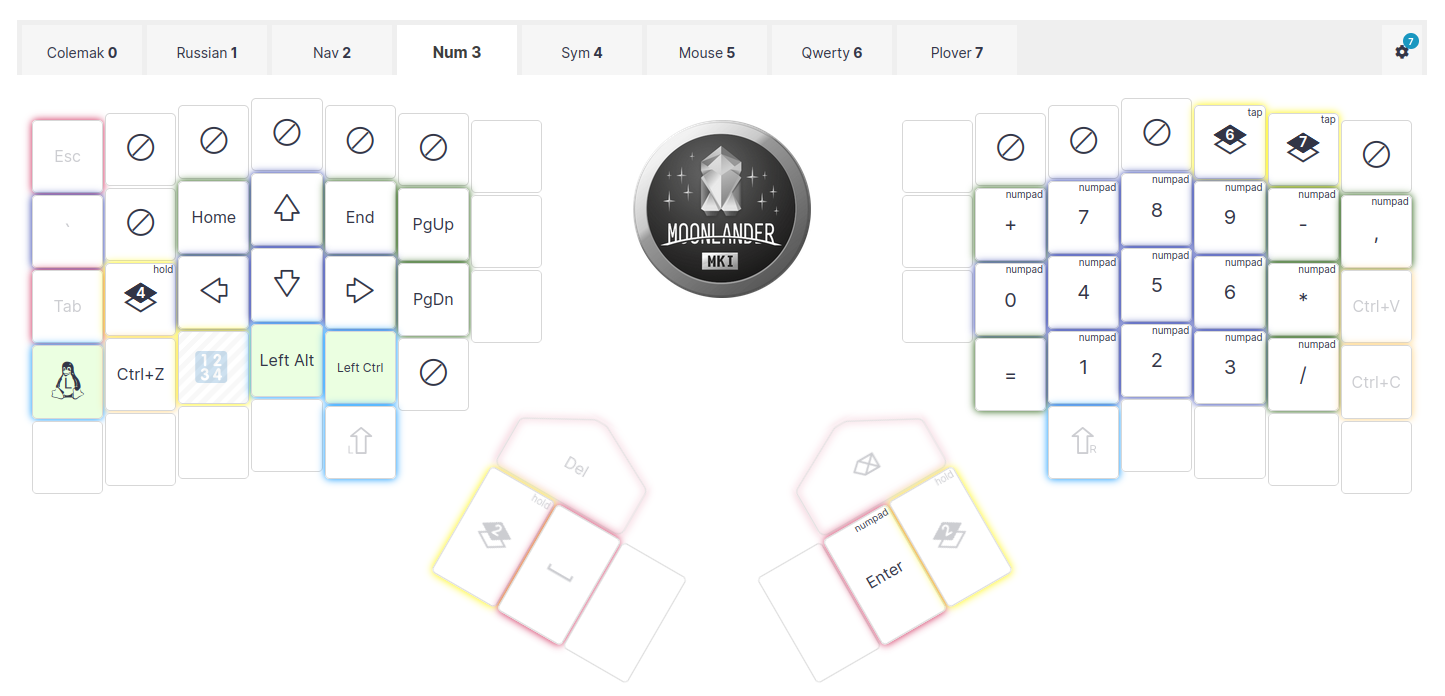
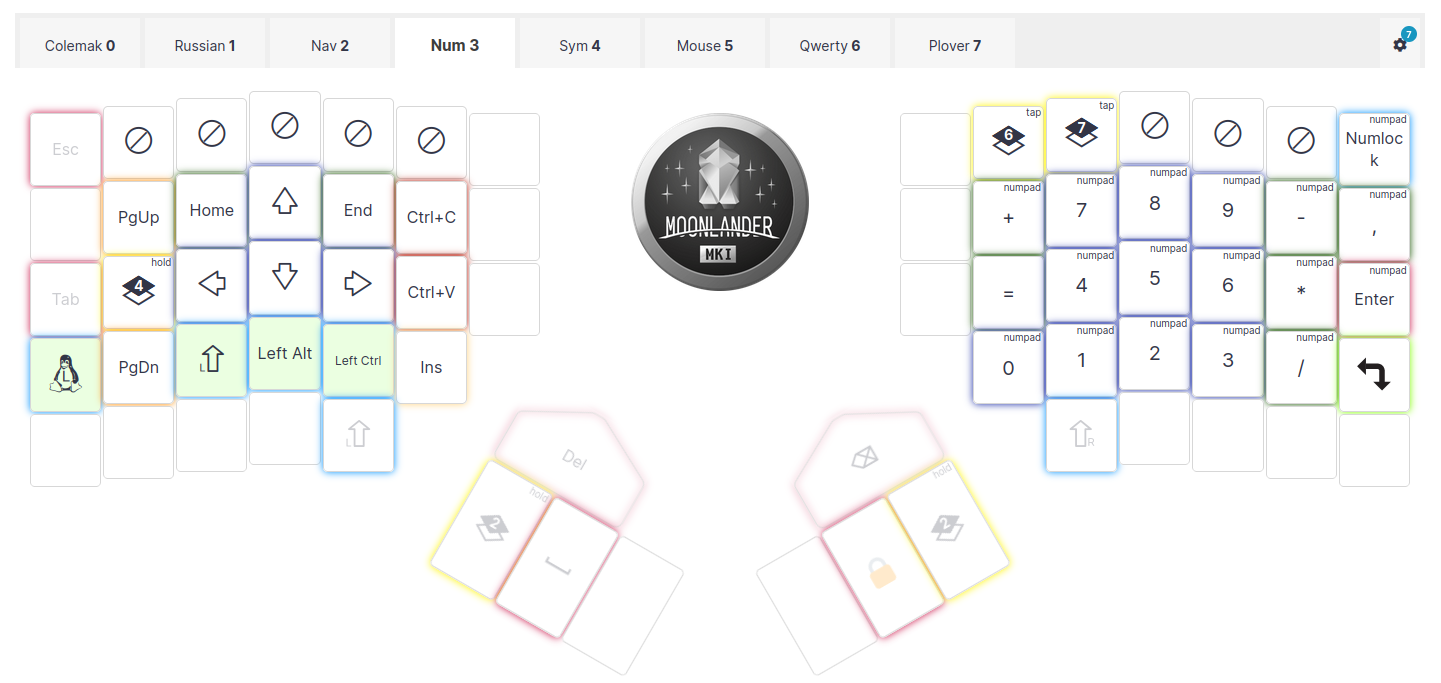
adjust nav layer

diff --git a/moonlander/keymap.c b/moonlander/keymap.c
@@ -73,9 +73,9 @@ const uint16_t PROGMEM keymaps[][MATRIX_ROWS][MATRIX_COLS] = {
   ),
   [_NAV] = LAYOUT_moonlander(
     KC_TRANSPARENT, KC_F1,          KC_F2,          KC_F3,          KC_F4,          KC_F5,          KC_TRANSPARENT,         KC_TRANSPARENT, KC_F6,          KC_F7,          KC_F8,          KC_F9,          KC_F10,         KC_F11,
-    MO(5),          LCTL(KC_Q),     LCTL(KC_W),     LCTL(KC_Y),     LCTL(KC_D),     KC_PSCREEN,     KC_TRANSPARENT,         KC_TRANSPARENT, LCTL(KC_C),     KC_HOME,        KC_UP,          KC_END,         KC_PGUP,        KC_F12,
-    KC_TRANSPARENT, MO(4),          KC_APPLICATION, KC_TRANSPARENT, MO(3),          LCTL(KC_LBRACKET),KC_TRANSPARENT,       KC_TRANSPARENT, LCTL(KC_V),     KC_LEFT,        KC_DOWN,        KC_RIGHT,       MO(4),          KC_TRANSPARENT,
-    KC_LGUI,        LCTL(KC_Z),     KC_LSHIFT,      KC_LALT,        KC_LCTRL,       LCTL(KC_RBRACKET),                                      KC_INSERT,      KC_RCTRL,       KC_LALT,        KC_RSHIFT,      KC_PGDOWN,      LGUI(KC_TAB),
+    MO(5),          LCTL(KC_Q),     LCTL(KC_W),     KC_PSCREEN,     LCTL(KC_D),     LCTL(KC_Y),     KC_TRANSPARENT,                                 KC_TRANSPARENT, LCTL(KC_C),     KC_HOME,        KC_UP,          KC_END,         KC_PGUP,        KC_F12,
+    MO(3),          MO(4),          KC_APPLICATION, KC_TRANSPARENT, KC_TRANSPARENT, LCTL(KC_LBRACKET),KC_TRANSPARENT,                                                                 KC_TRANSPARENT, LCTL(KC_V),     KC_LEFT,        KC_DOWN,        KC_RIGHT,       MO(4),          KC_TRANSPARENT,
+    KC_LGUI,        LCTL(KC_Z),     KC_LSHIFT,      KC_LALT,        KC_LCTRL,       LCTL(KC_RBRACKET),                                KC_INSERT,      MT(MOD_RCTL, KC_DELETE),KC_LALT,        KC_RSHIFT,      KC_PGDOWN,      LGUI(KC_TAB),
     KC_TRANSPARENT, KC_TRANSPARENT, KC_TRANSPARENT, KC_TRANSPARENT, KC_TRANSPARENT, KC_TRANSPARENT,                                         KC_TRANSPARENT, KC_TRANSPARENT, KC_TRANSPARENT, KC_TRANSPARENT, KC_TRANSPARENT, KC_TRANSPARENT,
     KC_TRANSPARENT, KC_TRANSPARENT, KC_TRANSPARENT,                 KC_TRANSPARENT, KC_TRANSPARENT, KC_TRANSPARENT
   ),
@@ -132,7 +132,7 @@ const uint8_t PROGMEM ledmap[][DRIVER_LED_TOTAL][3] = {
 
     [1] = { {245,218,204}, {23,255,255}, {245,218,204}, {23,255,255}, {0,0,0}, {73,255,85}, {23,255,255}, {41,255,255}, {23,255,255}, {0,0,0}, {73,255,85}, {23,255,255}, {23,255,255}, {147,255,255}, {0,0,0}, {73,255,85}, {23,255,255}, {23,255,255}, {147,255,255}, {0,0,0}, {73,255,85}, {23,255,255}, {23,255,255}, {147,255,255}, {147,255,255}, {73,255,85}, {23,255,255}, {23,255,255}, {23,255,255}, {0,0,0}, {0,0,0}, {0,0,0}, {41,255,255}, {245,218,204}, {0,0,0}, {245,218,204}, {147,255,255}, {23,255,255}, {245,218,204}, {23,255,255}, {0,0,0}, {73,255,85}, {23,255,255}, {41,255,255}, {23,255,255}, {0,0,0}, {73,255,85}, {23,255,255}, {23,255,255}, {147,255,255}, {0,0,0}, {73,255,85}, {23,255,255}, {23,255,255}, {147,255,255}, {0,0,0}, {73,255,85}, {23,255,255}, {23,255,255}, {147,255,255}, {147,255,255}, {73,255,85}, {23,255,255}, {23,255,255}, {23,255,255}, {0,0,0}, {0,0,0}, {0,0,0}, {41,255,255}, {245,218,204}, {0,0,0}, {245,218,204} },
 
-    [2] = { {245,218,204}, {41,255,255}, {245,218,204}, {147,255,255}, {0,0,0}, {64,255,255}, {28,127,255}, {41,255,255}, {28,127,255}, {0,0,0}, {64,255,255}, {28,127,255}, {73,255,85}, {147,255,255}, {0,0,0}, {64,255,255}, {23,255,255}, {0,0,0}, {147,255,255}, {0,0,0}, {64,255,255}, {23,255,255}, {41,255,255}, {147,255,255}, {147,255,255}, {64,255,255}, {4,232,184}, {23,255,255}, {23,255,255}, {0,0,0}, {0,0,0}, {0,0,0}, {41,255,255}, {245,218,204}, {0,0,0}, {4,232,184}, {64,255,255}, {64,255,255}, {4,232,184}, {64,255,255}, {0,0,0}, {64,255,255}, {23,255,255}, {41,255,255}, {23,255,255}, {0,0,0}, {64,255,255}, {73,255,85}, {166,218,166}, {147,255,255}, {0,0,0}, {64,255,255}, {166,218,166}, {166,218,166}, {147,255,255}, {0,0,0}, {64,255,255}, {73,255,85}, {166,218,166}, {147,255,255}, {147,255,255}, {64,255,255}, {4,232,184}, {4,232,184}, {28,127,255}, {0,0,0}, {0,0,0}, {0,0,0}, {41,255,255}, {245,218,204}, {0,0,0}, {4,232,184} },
+    [2] = { {245,218,204}, {41,255,255}, {41,255,255}, {147,255,255}, {0,0,0}, {64,255,255}, {28,127,255}, {41,255,255}, {28,127,255}, {0,0,0}, {64,255,255}, {28,127,255}, {73,255,85}, {147,255,255}, {0,0,0}, {64,255,255}, {4,232,184}, {0,0,0}, {147,255,255}, {0,0,0}, {64,255,255}, {23,255,255}, {0,0,0}, {147,255,255}, {147,255,255}, {64,255,255}, {23,255,255}, {23,255,255}, {23,255,255}, {0,0,0}, {0,0,0}, {0,0,0}, {41,255,255}, {245,218,204}, {0,0,0}, {4,232,184}, {64,255,255}, {64,255,255}, {4,232,184}, {64,255,255}, {0,0,0}, {64,255,255}, {23,255,255}, {41,255,255}, {23,255,255}, {0,0,0}, {64,255,255}, {73,255,85}, {166,218,166}, {147,255,255}, {0,0,0}, {64,255,255}, {166,218,166}, {166,218,166}, {147,255,255}, {0,0,0}, {64,255,255}, {73,255,85}, {166,218,166}, {147,255,255}, {147,255,255}, {64,255,255}, {4,232,184}, {4,232,184}, {28,127,255}, {0,0,0}, {0,0,0}, {0,0,0}, {41,255,255}, {245,218,204}, {0,0,0}, {4,232,184} },
 
     [3] = { {245,218,204}, {0,0,0}, {245,218,204}, {147,255,255}, {0,0,0}, {0,0,0}, {23,255,255}, {41,255,255}, {23,255,255}, {0,0,0}, {0,0,0}, {73,255,85}, {166,218,166}, {147,255,255}, {0,0,0}, {0,0,0}, {166,218,166}, {166,218,166}, {147,255,255}, {0,0,0}, {0,0,0}, {73,255,85}, {166,218,166}, {147,255,255}, {147,255,255}, {0,0,0}, {4,232,184}, {4,232,184}, {28,127,255}, {0,0,0}, {0,0,0}, {0,0,0}, {41,255,255}, {245,218,204}, {0,0,0}, {245,218,204}, {147,255,255}, {73,255,85}, {245,218,204}, {64,255,255}, {0,0,0}, {0,0,0}, {73,255,85}, {73,255,85}, {73,255,85}, {0,0,0}, {0,0,0}, {166,218,166}, {166,218,166}, {166,218,166}, {0,0,0}, {0,0,0}, {166,218,166}, {166,218,166}, {166,218,166}, {0,0,0}, {41,255,255}, {166,218,166}, {166,218,166}, {166,218,166}, {147,255,255}, {41,255,255}, {73,255,85}, {73,255,85}, {166,218,166}, {0,0,0}, {0,0,0}, {0,0,0}, {41,255,255}, {245,218,204}, {0,0,0}, {245,218,204} },
 

diff --git a/moonlander/config.h b/moonlander/config.h
@@ -23,7 +23,7 @@
 #undef MOUSEKEY_TIME_TO_MAX
 #define MOUSEKEY_TIME_TO_MAX 100
 
-#define FIRMWARE_VERSION u8"gqXJ4/KQBq4"
+#define FIRMWARE_VERSION u8"gqXJ4/PbO7J"
 #define RAW_USAGE_PAGE 0xFF60
 #define RAW_USAGE_ID 0x61
 #define LAYER_STATE_16BIT
